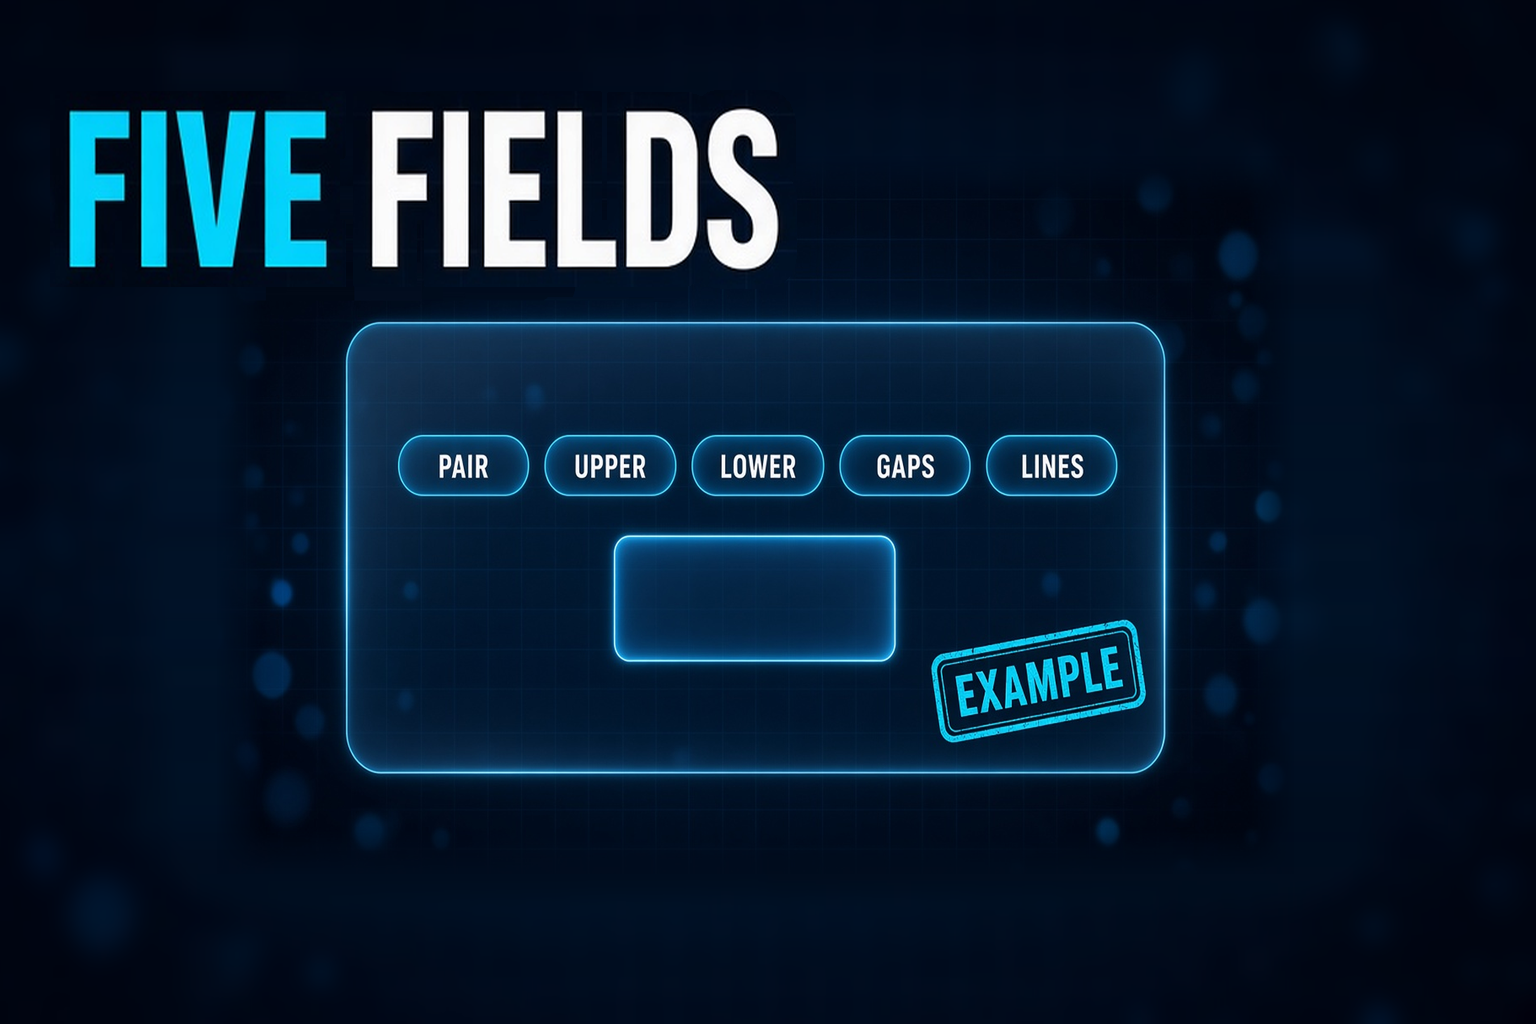
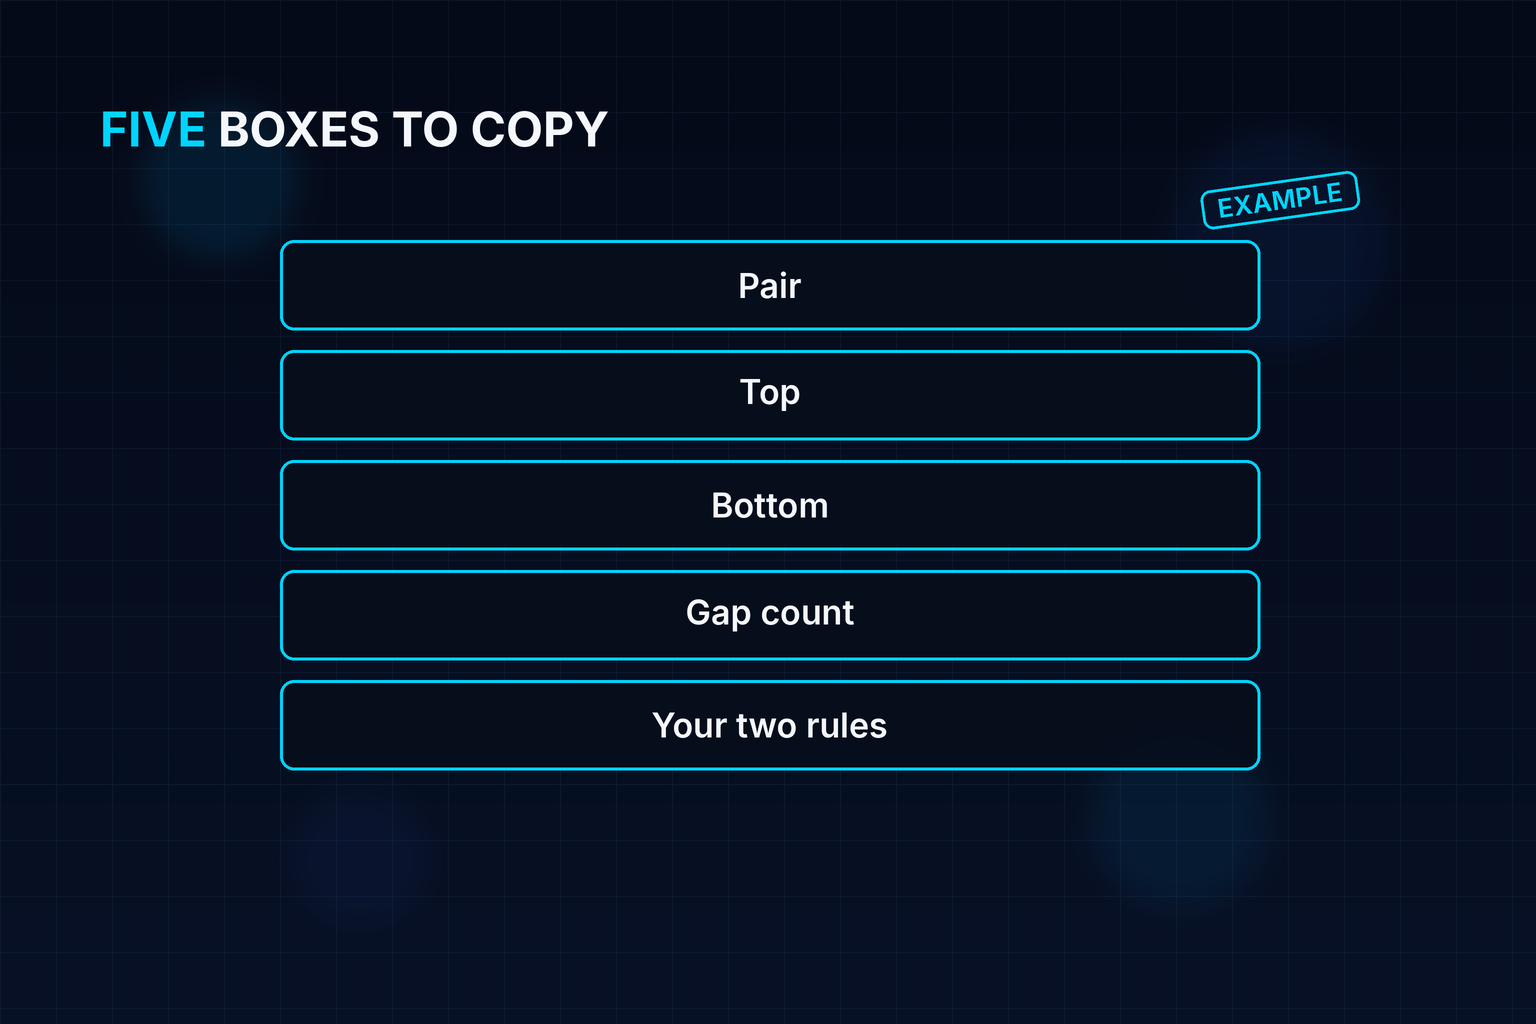
Score Cursor-agent BP-07 005 and 019 at d62988f: both pass, placed (source cursor). BP-07 18/20. Local only, no push.

Changed region(s): [[0.0312, 0.0938, 0.8438, 0.8438], [0.75, 0.1562, 0.875, 0.2812], [0.1562, 0.5625, 0.1875, 0.5938]]

diff --git a/blueprint-image-qa/bp04-11/REPORT.md b/blueprint-image-qa/bp04-11/REPORT.md
@@ -490,3 +490,19 @@ All required headlines are exact; arrow tips touch.
 
 ### Updated counts
 - **BP-06: 17/20 — not 100%.** Other queued rows (not in this Cursor batch) remain.
+
+---
+
+## Cursor-agent remakes for BP-07 005 and 019
+
+Both from `d62988f6c93856cadc5410b04219ec8b2382a6ca` (identical at tip 3a1137a).
+
+| File | Result | Margins (l/r/t/b) | Scores | Blob |
+|---|---|---|---|---|
+| gen/bp-07-spot-paper-trading/005/cursor1.png | PASS | 103/176/111/254 | 5/5/5/5/5/—/5 | 3b621dcea5e76e897eab32ade7e36395d8968e18 |
+| gen/bp-07-spot-paper-trading/019/cursor1.png | PASS | 103/176/109/254 | 5/5/5/5/5/—/5 | 0ba89c2a924230dd301cb007a3068ef05f7cd8f0 |
+
+Five fields are Pair / Top / Bottom / Gap count / Your two rules. No 'LINES' field.
+
+### Updated counts
+- **BP-07: 18/20 — not 100%.** Other queued rows (not in this Cursor batch) remain.
